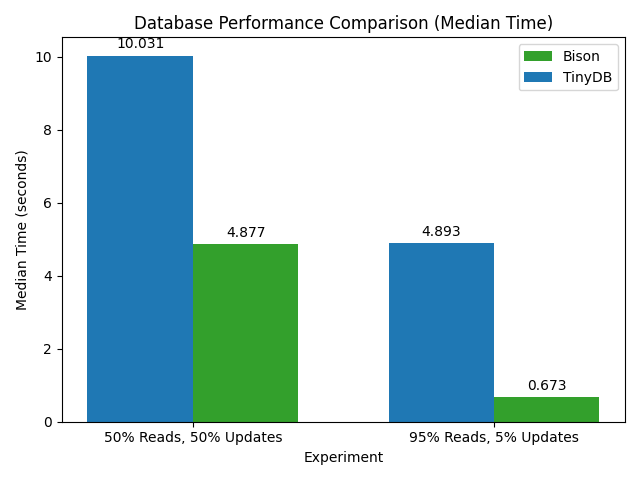
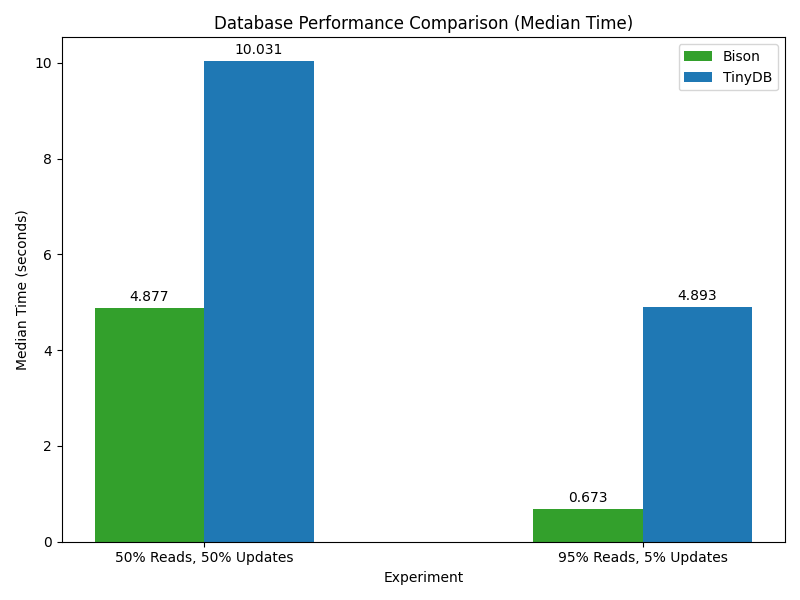
Update benchmark image
Update README

diff --git a/tests/benchmarks/plot_benchmarks.py b/tests/benchmarks/plot_benchmarks.py
@@ -19,7 +19,6 @@ def plot_benchmark(file_name: str):
     with open(file_name, "r") as f:
         data = json.load(f)
 
-    # Organize data
     experiments = ["50% Reads, 50% Updates", "95% Reads, 5% Updates"]
     databases = ["Bison", "TinyDB"]
     median_times = {
@@ -44,20 +43,22 @@ def plot_benchmark(file_name: str):
             median_times[param][db] = median_time
 
     # Plotting
-    x = np.arange(len(experiments))  # the label locations
-    width = 0.35  # the width of the bars
+    x = np.arange(len(experiments))
+    width = 0.25
 
-    fig, ax = plt.subplots()
+    fig, ax = plt.subplots(figsize=(8, 6))
 
-    # Get the TinyDB and Bison-DB median times for each experiment
+    # Get the Bison and TinyDB median times for each experiment
     bisondb_medians = [median_times[exp]["Bison"] for exp in experiments]
     tinydb_medians = [median_times[exp]["TinyDB"] for exp in experiments]
-    # Create the bar chart
+
+    # Bison bars first
     rects1 = ax.bar(
-        x + width / 2, bisondb_medians, width, label="Bison", color="#33a02c"
+        x - width / 2, bisondb_medians, width, label="Bison", color="#33a02c"
     )
-    rects2 = ax.bar(x - width / 2, tinydb_medians,
-                    width, label="TinyDB", color="#1f78b4")
+    rects2 = ax.bar(
+        x + width / 2, tinydb_medians, width, label="TinyDB", color="#1f78b4"
+    )
 
     # Add labels, title, and custom x-axis tick labels
     ax.set_xlabel("Experiment")

diff --git a/README.md b/README.md
@@ -27,7 +27,8 @@ pip install bison-db
 ## Performance
 I decided to compare Bison against TinyDB as it is the most similar database to Bison in terms of purpose.
 In our performance benchmarks, Bison is around 2-13x faster than TinyDB (depending on the type of operations and
-number of documents).
+number of documents). The chart shows the median time to execute 1000 operations on a database with 1000 collections.
+Each update triggers a write to file in both Bison and TinyDB.
 
 <p align="center">
   <img height="256" src="https://github.com/ManuConcepBrito/bison/blob/master/docs/0001_1000_ops_1000_docs.png" alt="Bison">
